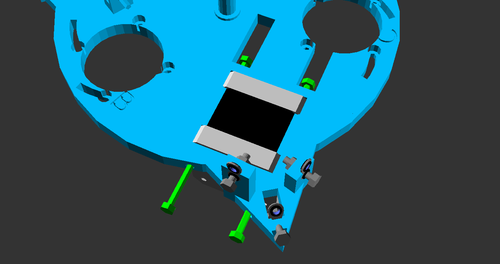
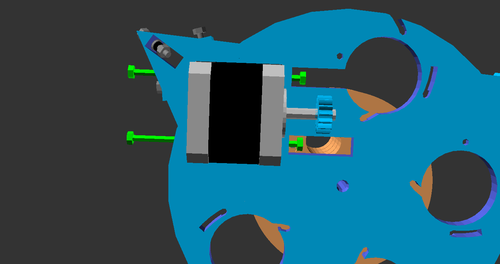
Clerck assembly manual v0.1 finished

diff --git a/index.html b/index.html
@@ -22,6 +22,19 @@ Reprap blog
   Update and Clerck Build Instructions
 </h1>
 <div class="date">8-2-2016</div>
+<!-- TODO:
+* läs igenom med perspektivet:
+  För er som är nya: kolla den här källan
+   - på forum
+   - på Github
+   - elektronik
+   - 3dskrivarteknik generellt
+   - sourcing
+  För er andra: fortsätt
+* TBF'ar
+* Verktygslista?
+* Lock ring/spacer consistent naming
+-->
 <p>
   I've been working on Open Source Ecology 3D printer workshops (see my <a href="http://opensourceecology.org/wiki/Tobben_Log">work log</a> for exactly what I've been up to)
   the past month, and will continue to work on that until mid summer.
@@ -29,18 +42,20 @@ Reprap blog
 <p>
   Clerck would love to be developed further by anyone even if I'm on another project right now.
   The following instructions should not be considered "the ultimate way", it's simply how I did it on my first try with the prototype.
-  The best absolute source of Clerck information is the OpenSCAD files in the <a href="https://github.com/tobbelobb/hangprinter">Github repo</a>.
+  The best absolute source of Clerck information is the OpenSCAD files in the Github repo.
   A special branch was created for this build manual, called
-  <a href="https://github.com/tobbelobb/hangprinter">build_maunal_0</a>.
+  <a href="https://github.com/tobbelobb/hangprinter/tree/build_maunal_0">build_maunal_0</a>.
   <code>Hangprinter.scad</code> is the most high-level entry point.
 </p>
 <p>
   This build manual will be short and terse.
-  Don't be afraid to ask questions on forums and elsewhere to fill in knowledge and information gaps.
+  Ask questions
+  <a href="forums.reprap.org/read.php?178,344022">the forum thread</a>
+  to fill in knowledge and information gaps.
 </p>
 
 <h2 id="Clerck_assembly_manual">
-  Clerck Assembly Manual v0
+  Clerck Assembly Manual v0.1
 </h2>
 <figure>
   <a href="./bilder/hangprinter_assembly.png"><img
@@ -55,16 +70,16 @@ Reprap blog
 
 <h3>Step 0: Sourcing</h3>
 <p>
-  For vitamins BOM, see
+  For vitamins bill of materials, see
   <a href="http://www.appropedia.org/Clerck,_a_RepRap_3D_printer_hanging_from_the_ceiling#Costs">the Appropedia article</a>.
   Some info on hardware specifics is found in
   <a href="https://github.com/tobbelobb/hangprinter/tree/build_maunal_0/used_hardware">used_hardware</a> directory in repo.
-  For printed parts BOM, search
+  For printed parts bill of materials, search
   <a href="https://github.com/tobbelobb/hangprinter/tree/build_maunal_0/stl">stl directory</a> of build_maunal_0 branch
   in Github repo for the shown STL files.
   You'll also need the Hangprinter-Marlin firmware.
   It's in the firmware folder of the
-  <a href="https://github.com/tobbelobb/hangprinter/tree/build_maunal_0/firmware">repo</a>.
+  <a href="https://github.com/tobbelobb/hangprinter/tree/build_maunal_0/firmware/Marlin">repo</a>.
 </p>
 
 <h3>Step 1: Cut Lines to Length and Tie to Spools</h3>
@@ -75,6 +90,18 @@ Reprap blog
   I use twice the origin/wall-distance plus ca 1.5 meters along all axes.
   As there are 4 movement axes on this printer, there will be 4 lengths.
   We call them the A-length, B-length, C-length and D-length.
+<p>
+<figure>
+  <a href="./bilder/ABCD.png"><img
+    src="./bilder/ABCD_liten.png"
+    alt=""></a>
+   <figcaption>
+     Illustration associating each of the letters "A", "B", "C" and "D" with a corresponding anchor point.
+     The bottom plate (largest printed part) has A, B, and C inscriptions on it,
+       indicating which side should face which wall-mounted anchor point.
+  </figcaption>
+</figure>
+</p>
   After this step you should have:
 </p>
 <ul>
@@ -86,7 +113,6 @@ Reprap blog
 <p>
   Tie the A-length lines onto one spool, then the B-length lines onto another spool etc.
 </p>
-
 <figure>
   <a href="./bilder/tie_in_here.png"><img
     src="./bilder/tie_in_here_liten.png"
@@ -150,7 +176,10 @@ Ensure that geared spools rotate freely by rotating and wiggling them by hand.
     alt=""></a>
    <figcaption>
      The stopper screw and nut that can be used to lock the D-spool manually.
-     Notice the lock-nut trapped in the box.
+     Notice the nut trapped in the box.
+     The stop screw works by pushing against the D-spool gear, preventing it from rotating.
+     Use a nyloc nut in the box or remove the stop screw during printing, to avoid that the stop screw
+     vibrates into a stopping position mid-print.
   </figcaption>
 </figure>
 
@@ -169,7 +198,7 @@ Ensure that geared spools rotate freely by rotating and wiggling them by hand.
     src="./bilder/tble_assembly_step_1_liten.png"
     alt=""></a>
    <figcaption>
-     Note the white PTFE tube guiding filament into hot end.
+     Note the white PTFE (teflon) tube guiding filament into hot end.
      The blue 623 bearing needs support along the direction of the screw it's mounted on.
      I used ca 10 washers for this.
   </figcaption>
@@ -188,14 +217,14 @@ Ensure that geared spools rotate freely by rotating and wiggling them by hand.
    <figcaption>
      The hex head screw is pushed through a sandwich of
        large extruder gear, printed part, 623 bearing, hobbed insert, 623 bearing, printed part and finally M3 nut.
-     Some washers and lots of fiddling will be needed to assure feeding hobbs, support bearing and PTFE tube align.
+     Some washers and lots of fiddling will be needed to assure feeding hobbs, support bearing and PTFE tube align with each other.
   </figcaption>
 </figure>
 
 <h3>Step 6: Mount Extruder Motor</h3>
 <p>
-  The small small extruder gear is push-fit onto the extruder motor shaft, which should have one flat side.
-  Remove two bottom screws from the bottom of the motor before mounting.
+  The small extruder gear is push-fit onto the extruder motor shaft, which should have one flat side.
+  Remove two neighbouring bottom screws from the bottom of the motor before mounting.
 </p>
 <figure>
   <a href="./bilder/mounted_extruder_motor.png"><img
@@ -207,6 +236,14 @@ Ensure that geared spools rotate freely by rotating and wiggling them by hand.
        so the two leftmost screws in this figure need to be rather long.
   </figcaption>
 </figure>
+<p>
+  Note that this step is very dependent on motor size (maybe unnecessarily so).
+  If you have another motor than 17HS4401N,
+    then double check that your motor fits (see lines 2, 3 and 4 in <code>measured_numbers.scad</code>).
+  The extruder motor hole is created on
+  <a href="https://github.com/tobbelobb/hangprinter/blob/build_maunal_0/parts.scad#L262">line 262 in <code>parts.scad</code></a>,
+  if you rather want to change the CAD file than change the motor.
+</p>
 
 <h3>Step 7: Mount Tble-extruder</h3>
 
@@ -232,16 +269,20 @@ Ensure that geared spools rotate freely by rotating and wiggling them by hand.
     Motor gears are push-fit onto motor shafts. The motor shafts must have one flat side.
   </figcaption>
 </figure>
-
+<p>
+  Match motor gear height and placement with corresponding spool.
+</p>
 <figure>
   <a href="./bilder/mounted_motors_from_above.png"><img
     src="./bilder/mounted_motors_from_above_liten.png"
     alt=""></a>
    <figcaption>
      Bottom plate from above with correctly mounted motors and highlighted letters viewed from above.
-     Letter on motor gear corresponds to direction of movement.
   </figcaption>
 </figure>
+<p>
+  Look at your printer from above to confirm you can read "CBCADAB" from left to right before preceding.
+</p>
 
 <figure>
   <a href="./bilder/mounted_motors_from_side.png"><img
@@ -264,8 +305,23 @@ Ensure that geared spools rotate freely by rotating and wiggling them by hand.
   </figcaption>
 </figure>
 <p>
-  I placed a wooden platform between the ceiling and the printed ceiling part to avoid having to drill screw holes in the ceiling.
+  I hung a wooden platform in a lamp hook avoid having to drill screw holes in the ceiling (see
+  <a href="./bilder/takfeste.JPG">picture</a>).
 </p>
+<figure>
+  <a href="./bilder/wrapping_line.png"><img
+    src="./bilder/wrapping_line_liten.png"
+    alt=""></a>
+   <figcaption>
+     The wall plates have roller bearings attached to adjustment screws.
+     Tread lines through loop holding roller bearing.
+  </figcaption>
+</figure>
+<p>
+  The end of the A, B and C lines are attached to the M3 screw holding the corresponding fish line ring.
+  More details on that in <a href="#ABC_frame_adjustment">a previous post</a>.
+</p>
+
 
 <h3>Step 10: Mount Wall and Ceiling Parts</h3>
 <p>
@@ -285,6 +341,9 @@ Ensure that geared spools rotate freely by rotating and wiggling them by hand.
 </figure>
 
 <h3>Step 11: Thread D-lines</h3>
+<p>
+  I rested motors on two towers of books while doing this.
+</p>
 
 <figure>
   <a href="./bilder/thread_lines.png"><img
@@ -300,6 +359,7 @@ Ensure that geared spools rotate freely by rotating and wiggling them by hand.
 <p>
   Secure locking screw on D-spool-gear and flip the printer upside down.
   Mount Arduino Mega+RAMPS on an isolating plastic sheet, and mount that sheet using bottom-screws of stepper motors.
+  I used a piece of ice cream packaging as isolation sheet.
 </p>
 <figure>
   <a href="./bilder/flipped_render.png"><img
@@ -313,7 +373,7 @@ Ensure that geared spools rotate freely by rotating and wiggling them by hand.
 <h3>Step 13: Upload Firmware</h3>
 <p>
   Plug in the USB cable and upload the Marlin firmware found in <code>firmware/Marlin/Marlin</code>.
-  If you haven't uploaded firmware through Arduino IDE before, it looks like shown in
+  If you haven't uploaded firmware through the Arduino IDE before, it looks like shown in
   <a href="https://youtu.be/YM3z9IdLzAk?t=1m">this video</a>.
   Try to communicate with your RAMPS board through USB cable and
   <a href="https://github.com/kliment/Printrun#using-pronterface">Pronterface</a> (no power supply is needed for this).
@@ -322,14 +382,12 @@ Ensure that geared spools rotate freely by rotating and wiggling them by hand.
 </p>
 
 <h3>Step 14: Wire up electronics</h3>
-<h4>Warnings</h4>
 <p>
-  Use anti-static waistband while working with electronics.
-  Don't wire in motors until Stepsticks' reference voltage is properly adjusted.
-  Don't ever unplug motors while RAMPS is powered.
-  Actively look for shorts with a multimeter.
-  Unplug mains power at once if you smell burnt electronics.
-  Etc etc.
+  For those who are new to electronics, take some time to read about general electronics safety. For examle
+  <a href="http://www.dummies.com/how-to/content/electronics-safety-rules.html">Electronics Safety Rules for Dummies</a> and
+  <a href="http://www.howtogeek.com/169994/how-to-protect-your-pcs-hardware-from-static-electricity-when-working-on-it/">howtogeek article on static electricity protection</a>.
+  Insulate the hot end. The Clerck design has a high risk of melting its own cables, which will
+  cause fire (see <a href="http://forums.reprap.org/read.php?392,294850">forum thread</a>).
 </p>
 <p>
   Mount stepper driver chips and adjust Stepstick trimpots to get the right reference voltage
@@ -396,20 +454,6 @@ Ensure that geared spools rotate freely by rotating and wiggling them by hand.
 
 <h3>Step 17: Thread A, B and C Lines</h3>
 <figure>
-  <a href="./bilder/wrapping_line.png"><img
-    src="./bilder/wrapping_line_liten.png"
-    alt=""></a>
-   <figcaption>
-     The wall plates have roller bearings attached to adjustment screws.
-     Tread lines through loop holding roller bearing.
-  </figcaption>
-</figure>
-<p>
-  The end of the A, B and C lines are attached to the M3 screw holding the corresponding fish line ring.
-  More details on that in <a href="#ABC_frame_adjustment">a previous post</a>.
-</p>
-
-<figure>
   <a href="./bilder/sweet_victory2.png"><img
     src="./bilder/sweet_victory2_liten.png"
     alt=""></a>
@@ -417,6 +461,21 @@ Ensure that geared spools rotate freely by rotating and wiggling them by hand.
      Your Clerck should now look roughly like this.
   </figcaption>
 </figure>
+
+<h3>Step 18: Additions to Ceiling Plate</h3>
+<h4>Counterweights</h4>
+<p>
+  I use ca 250 grams of counterweight attached in each corner, with lines running along the outermost D-lines and running through
+  the same vgroove bearings in the ceiling part.
+</p>
+<h4>Manual Homing with Aiming Plumb</h4>
+<p>
+  I'm simply homing the printer using gcodes <code>G3</code> (move without recording it) after powering on.
+  The gcodes <a href="http://reprap.org/wiki/Gcode#G92:_Set_Position">G92</a> and
+  <a href="http://reprap.org/wiki/Gcode#M114:_Get_Current_Position">M114</a>.
+  To help the manual homing process, I've attached an aiming plumb to the center of the ceiling part, see
+  <a href="./bilder/center_lod.JPG">picture</a> and <a href="#hangprinter_project_18">previous post</a>.
+</p>
 
 <p>
   End of assembly manual.
